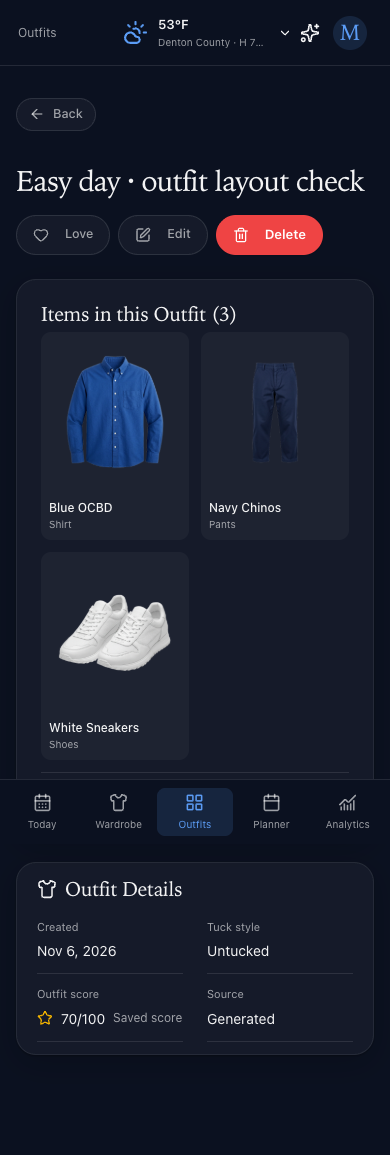
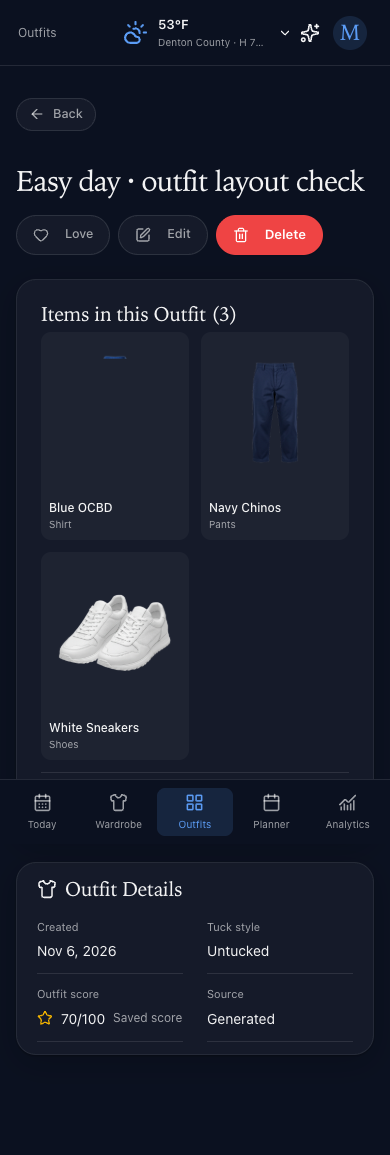
Record mobile release and owner access verification

Changed region(s): [[0.1538, 0.3117, 0.4308, 0.4052]]

diff --git a/docs/mobile-membership-2026-11-06/README.md b/docs/mobile-membership-2026-11-06/README.md
@@ -10,10 +10,12 @@ The weather popup uses aligned daily rows, rain chances, and temperature ranges.
 
 An explicit service-managed grant supplies membership access separately from Stripe subscription records. It does not create a Stripe subscription or billing charge. Grants can expire or be revoked. Ordinary members cannot write grants, and an admin role alone does not confer a paid tier. Node entitlements and the database plan resolver use the same highest-valid-plan rule. Existing monetary AI limits remain in force.
 
-The additive migration was applied before deploying code that reads the table. The rollout restores the designated owner/admin account only after hosted verification. No customer subscription, payment, invoice, or Stripe status needs alteration.
+The additive migration was applied before deploying code that reads the table. The designated owner/admin account was restored to complimentary Pro after hosted verification. Node and SQL both resolve Pro, and its existing billing record is unchanged. No customer subscription, payment, invoice, or Stripe status needs alteration.
 
 ## Verification
 
 2,432 automated tests passed, with four existing skips. Production build, TypeScript, strict lint, and private-value scans passed. Real hosted database tests verified self-upgrade denial, account isolation, expiry, revocation, and matching Node/SQL plans. Browser checks verified Free previews, benefit prompts, close-button centering, responsive forecasts, outfit editing, and complimentary Pro access surviving routine Stripe synchronization. They also verified that the test created no AI jobs. All temporary accounts were removed.
 
 Weather responses are deterministic fixtures for layout validation. Other browser data and membership checks use the real application in an isolated account. Screenshots show the final light/dark presentation. Run `node scripts/check-mobile-access-browser.mjs` against a local production build; set `PLAYWRIGHT_MODULE` if needed. `MOBILE_TEST_BASE=https://www.myaioutfit.com` selects the verified production domain. The runner never submits an AI request or starts checkout.
+
+The functional release is deployed and passed the same Free/Pro acceptance checks on the production site. The Supabase migration is fully applied with no pending migrations. See production-release.json, hosted-browser-validation.json, and owner-access-restoration.json.
